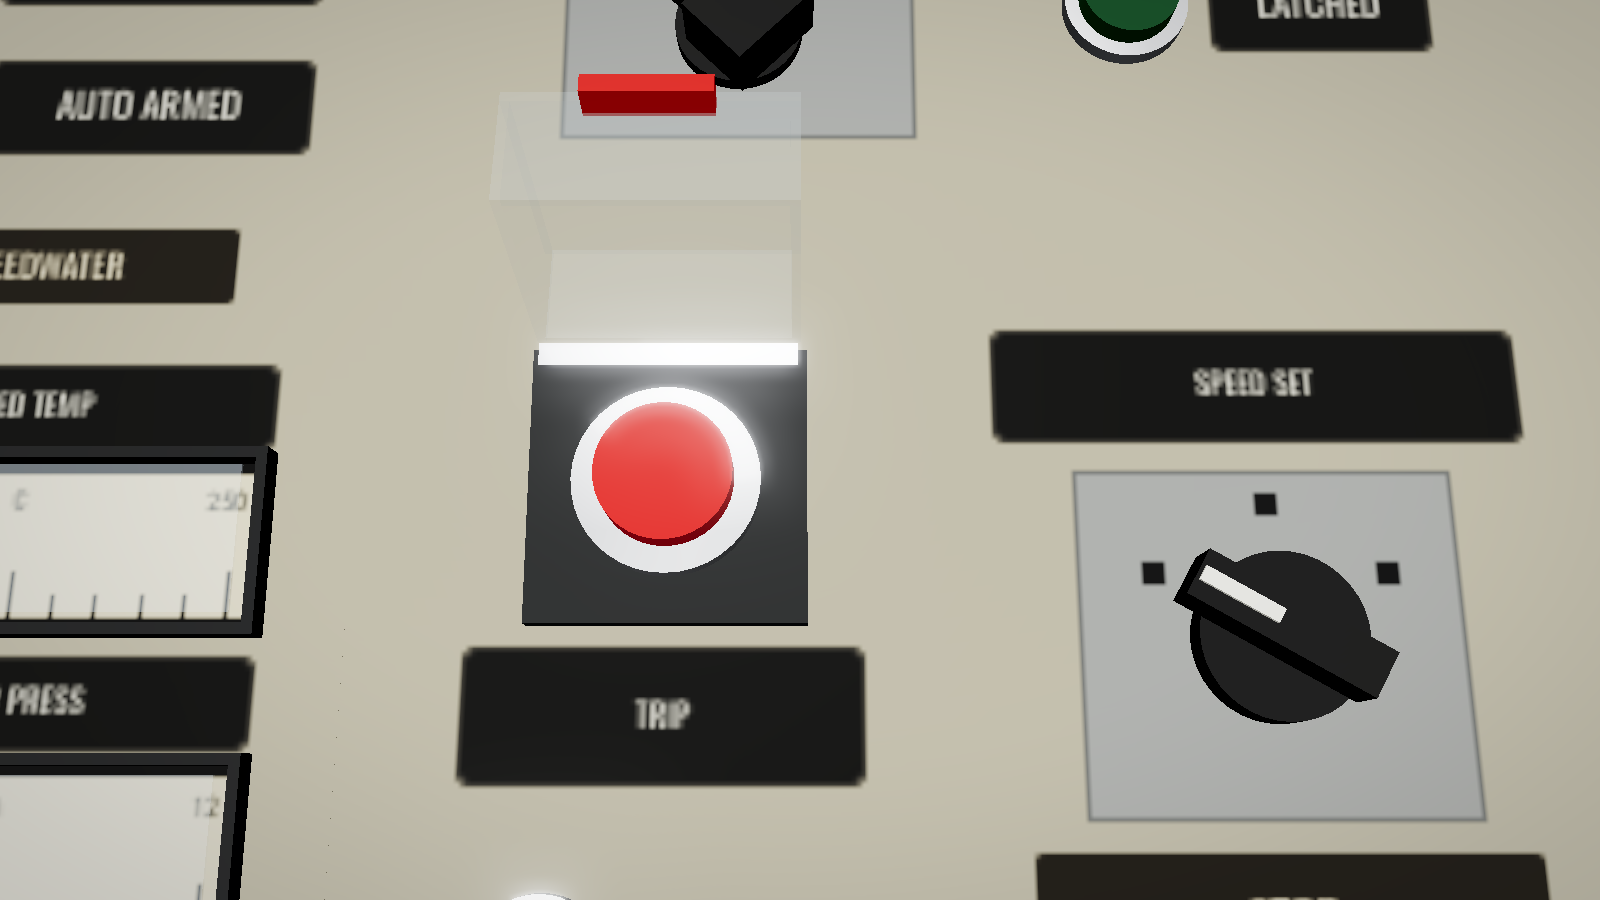
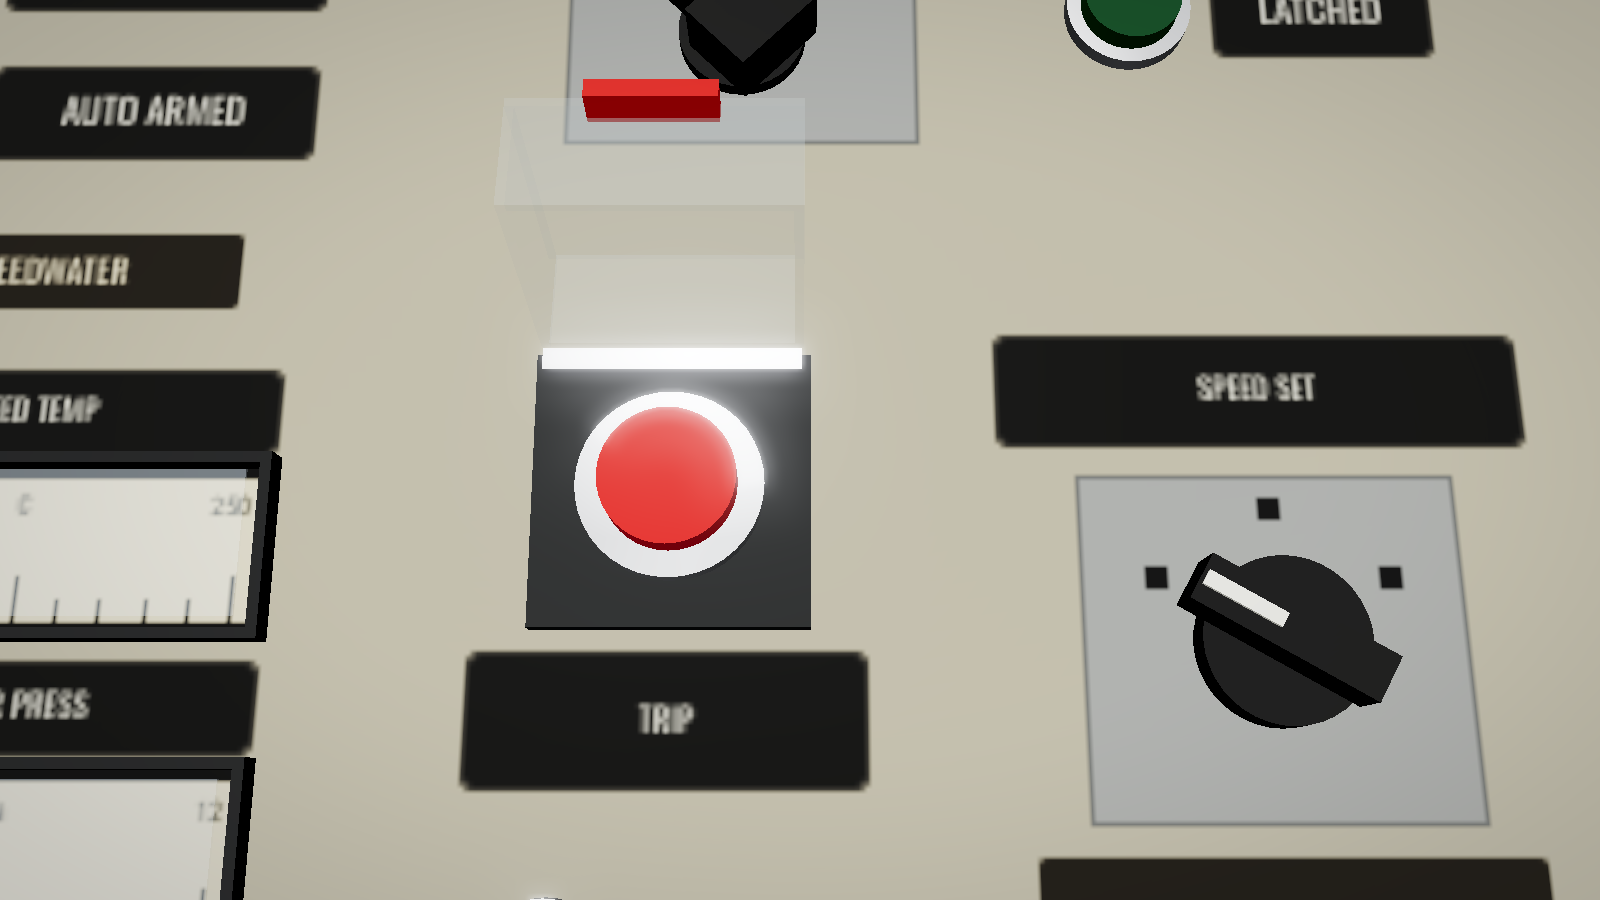
Put the control room back to life size
Shrinking the whole room around the character was not the smaller that
was meant. The test's seated player keeps standing in front of panel 5
wherever the scale puts it.

Claude-Session: https://claude.ai/code/session_01VSDuaMdJJtcpWxuAbMdZ91

diff --git a/README.md b/README.md
@@ -78,11 +78,9 @@ The operators' desks face the corner, so the reactor panel is straight ahead. RB
 (AZ-5, KOM, ORM, SKALA, cartogram) are kept. Every server runs one shared unit; anyone can
 operate any panel.
 
-The room is drawn in real sizes (the console front at 0.9 m, the light boxes topping out
-a little under 3 m, desks 0.74 m high, the ceiling 3.8 m up) and built one and a half
-times smaller than that beside a standard Roblox character, so it is compact to walk
-around: the console front comes to a character's thigh and the ceiling is about one and
-a half characters up. Seated at a panel, the view fills the screen just the same.
+The room is life-size around a standard Roblox character: the console front is at hip
+height (0.9 m), the light boxes top out a little under 3 m, desks are 0.74 m high and the
+ceiling is 3.8 m up.
 
 - **Boards**: on each vertical board, rows of narrow black-cased profile meters (white
   scale, red pointer, coloured limit bands) under black engraved nameplates in white condensed
